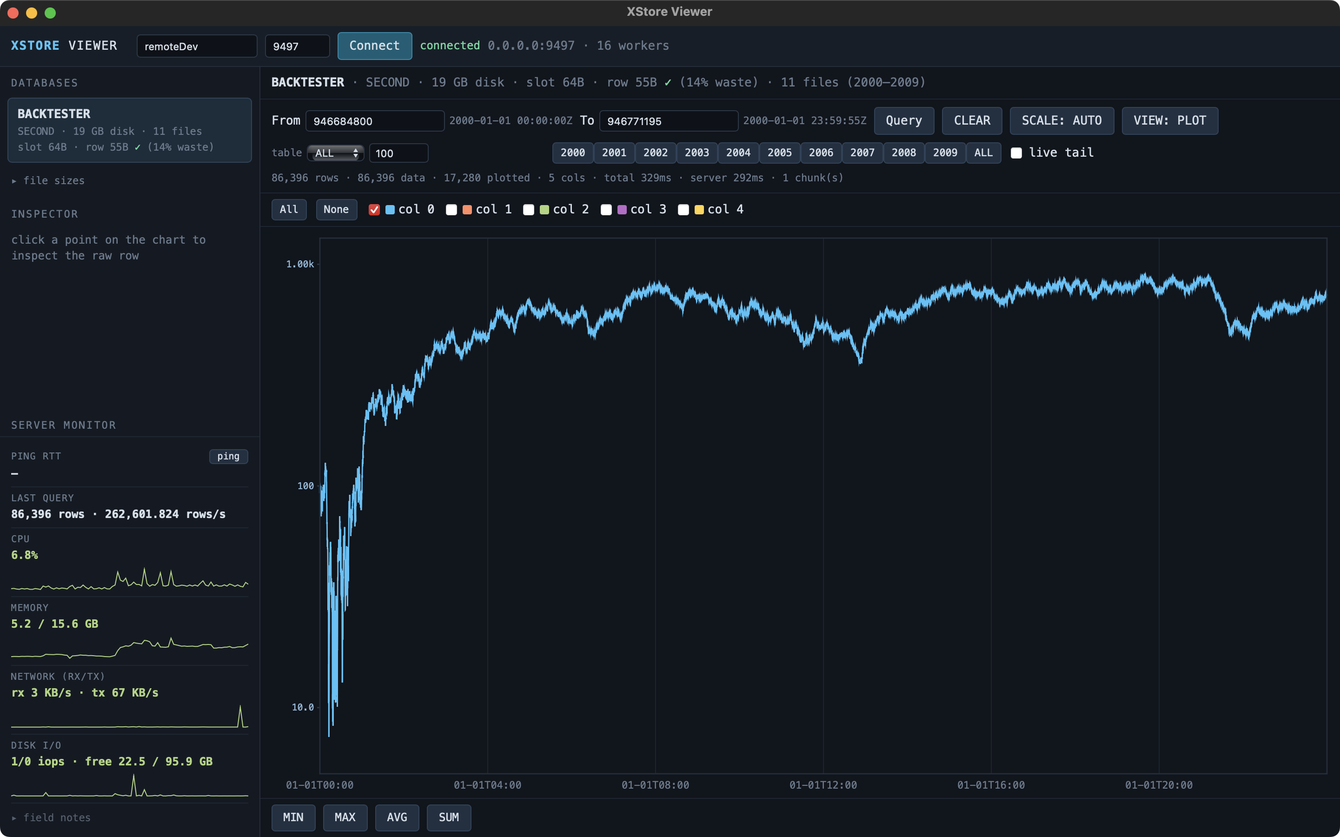
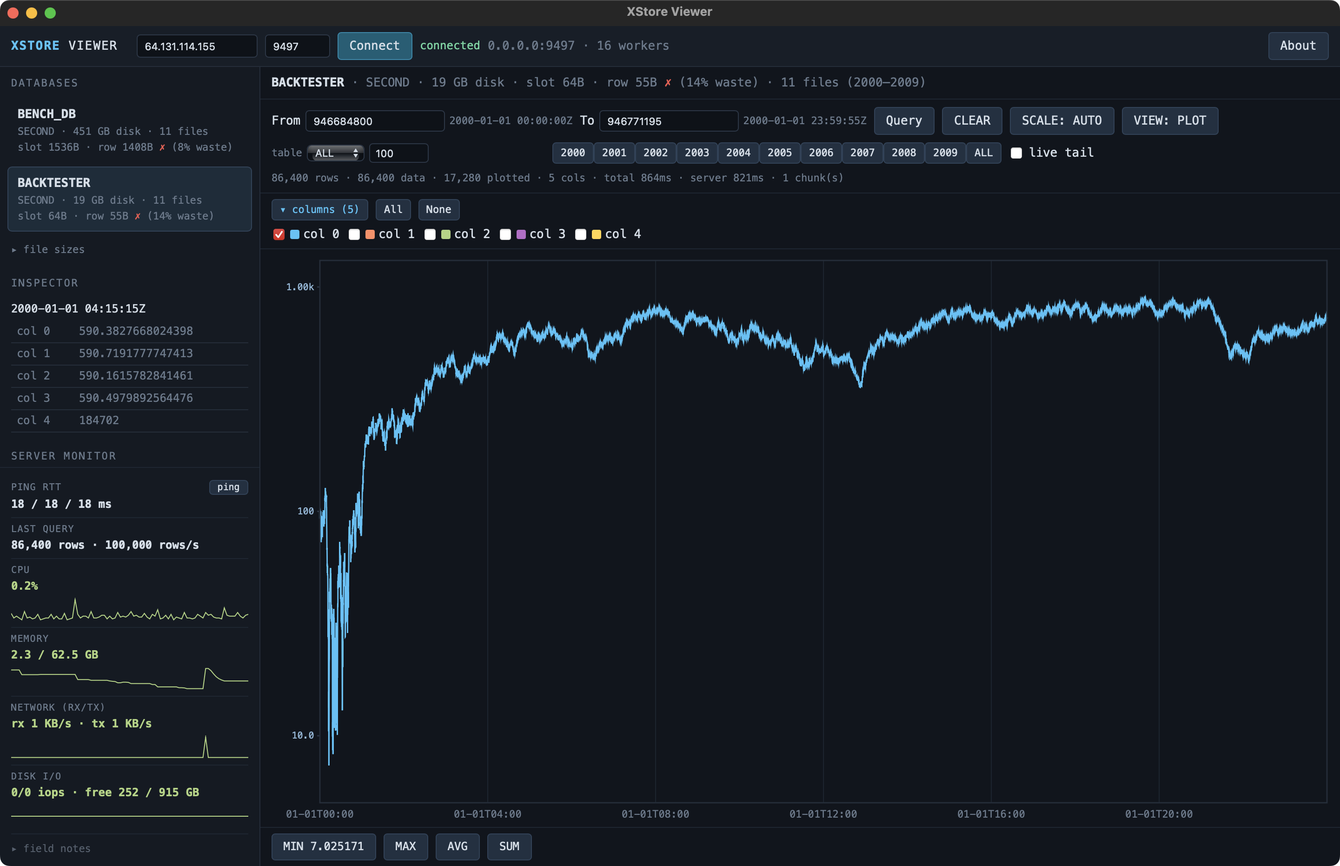
docs: update technical reference and refine viewer sizing diagnostics

diff --git a/tools/xstore-viewer/frontend/app.js b/tools/xstore-viewer/frontend/app.js
@@ -244,11 +244,15 @@ async function connect() {
 // to a power of two (8B = word size), so the proper slot for the data is the
 // largest row rounded UP to that alignment (rowSizes.formulaMax — a 55B row
 // needs 56B, not the next power of two 64B). slot == proper: green tick;
-// slot > proper: red X; slot < proper: red X (data would not even fit). The
-// (N% waste) is ALWAYS shown once rows are known: (slot - largest row) /
-// slot — the pad paid on every row, even when the slot fits (a 55B row in a
-// 64B slot is 14% waste). Unknown until a query for that DB has sampled real
-// rows.
+// slot > proper: red X (unnecessary padding waste); slot < proper: red X
+// (rowLength isn't itself 8-byte-aligned, even though it's big enough — NOT
+// a "data doesn't fit" warning: rows sampled here already round-tripped
+// through the server, and XStore rejects, never truncates, any insert whose
+// serialized size exceeds rowLength, so real data too big to fit can never
+// appear in this sample). The (N% waste) is ALWAYS shown once rows are
+// known: (slot - largest row) / slot — the pad paid on every row, even when
+// the slot fits (a 55B row in a 64B slot is 14% waste). Unknown until a
+// query for that DB has sampled real rows.
 function slotBadge(d) {
   if (!d || !d.rowLength) return "";
   const rs = S.dbRowSizes[d.name];
@@ -256,7 +260,7 @@ function slotBadge(d) {
   const row = rs.min === rs.max ? `${rs.min}B` : `${rs.min}–${rs.max}B`;
   const proper = rs.formulaMax || 0;
   if (proper && d.rowLength < proper) {
-    return `slot ${d.rowLength}B · row ${row} <span class="bad-x">✗ too small</span>`;
+    return `slot ${d.rowLength}B · row ${row} <span class="bad-x">✗ unaligned</span>`;
   }
   const waste = Math.max(0, Math.round((1 - rs.max / d.rowLength) * 100));
   const mark = proper && d.rowLength === proper

diff --git a/tools/xstore-viewer/frontend/about.html b/tools/xstore-viewer/frontend/about.html
@@ -34,7 +34,7 @@
     </p>
     <p>
       Lan Nguyen<br />
-      <a href="mailto:gbnservices9999@gmail.com" data-url="mailto:gbnservices9999@gmail.com">gbnservices9999@gmail.com</a>
+      <a href="mailto:lhnguyen694@gmail.com" data-url="mailto:lhnguyen694@gmail.com">lhnguyen694@gmail.com</a>
     </p>
     <p><a href="https://gitlab.com/lvn2007/XStore" data-url="https://gitlab.com/lvn2007/XStore">https://gitlab.com/lvn2007/XStore</a></p>
   </div>

diff --git a/tools/xstore-viewer/frontend/index.html b/tools/xstore-viewer/frontend/index.html
@@ -90,7 +90,7 @@
       </p>
       <p>
         Lan Nguyen<br />
-        <a href="mailto:gbnservices9999@gmail.com">gbnservices9999@gmail.com</a>
+        <a href="mailto:lhnguyen694@gmail.com">lhnguyen694@gmail.com</a>
       </p>
       <p><a href="https://gitlab.com/lvn2007/XStore">https://gitlab.com/lvn2007/XStore</a></p>
     </div>

diff --git a/tools/xstore-viewer/src/convert.rs b/tools/xstore-viewer/src/convert.rs
@@ -102,9 +102,16 @@ pub fn range_query_to_json(rep: &pb::RangeQueryRep, raw: bool) -> Value {
     // the serialized row up to that alignment: (row + (align - 1)) & ~(align
     // - 1). A 55B row needs 56B — NOT the next power of two (64B): power-of-
     // two rounding over-allocates (a 1408B row would "need" 2048B, 46%
-    // wasted). Max padding waste is (align - 1) = 7B per row. The frontend
-    // warns only when the configured slot exceeds this (or is too small to
-    // fit the row).
+    // wasted). Max padding waste is (align - 1) = 7B per row.
+    //
+    // Note sz_max here is drawn from rows the server already returned, i.e.
+    // already-stored rows — XStore rejects (never truncates) any insert
+    // whose serialized size exceeds rowLength, so sz_max <= rowLength is a
+    // server-enforced invariant, not a heuristic. slot_max can only exceed
+    // rowLength when rowLength itself isn't a multiple of SLOT_ALIGN (still
+    // >= sz_max) — this is an alignment mismatch, never a "data doesn't fit"
+    // condition; genuinely-oversized rows never appear in this sample at
+    // all, since they were never accepted in the first place.
     const SLOT_ALIGN: u64 = 8;
     let mut sz_min: Option<usize> = None;
     let mut sz_max: usize = 0;

diff --git a/docs/XStore_Technical_Reference.md b/docs/XStore_Technical_Reference.md
@@ -20,7 +20,7 @@ The codebase is under active, iterative performance engineering: the git history
 
 ## 2. System Overview
 
-XStore is a **single-writer-per-file, multi-threaded, RPC-accessed, file-backed time-series row store**. Each logical database ("DB") is a named collection of fixed-width binary rows, physically partitioned into **one file per calendar year** ("year-file"), addressed by direct offset arithmetic from a UNIX timestamp — there is no index, B-tree, LSM-tree, or WAL. The row's timestamp *is* its address.
+XStore is a **single-writer-per-file, multi-threaded, RPC-accessed, file-backed time-series row store**. Each logical database ("DB") is a named collection of fixed-width binary rows, physically partitioned into **one file per calendar year** ("year-file"), addressed by direct offset arithmetic from a UNIX timestamp — there is no index, B-tree, or LSM-tree. The row's timestamp *is* its address. `UnaryInsert` durability is backed by a real write-ahead log (§4.12); `BatchInsert`/`RangeInsert` durability is backed by a simpler async data-file fsync coalescer (§4.13) — see those sections for the distinction and what each does and doesn't guarantee.
 
 High-level components:
 
@@ -33,17 +33,18 @@ High-level components:
                          │     each: REP socket        │
                          │           + XStore instance │
                          └──────────┬──────────────────┘
-                                    │ pread/pwrite/mmap/fallocate
+                                    │ pread/pwrite/mmap/fallocate/pwritev
                                     ▼
                     DataStore/<DBNAME>/<DBNAME>.CFG
                     DataStore/<DBNAME>/<YEAR>.XSTORE  (fixed-width row slots)
+                    DataStore/WAL/shard_<N>.WAL        (UnaryInsert durability log)
 ```
 
 - **Wire protocol:** Google Protocol Buffers v3, over **ZeroMQ** (ROUTER/DEALER broker pattern, `tcp://` transport).
 - **Concurrency model:** one OS thread per configured worker; each thread owns its **own `XStore` instance** (stateless request logic) while several caches (mmap cache, fd cache, config cache) are **static/shared across all instances**, sharded to reduce cross-thread lock contention.
 - **Storage:** POSIX files, one directory per DB, one file per (DB, calendar year). Row slots are fixed-width and pre-sized (`ftruncate`) to the whole year's capacity at first touch.
 - **Row format:** each row is a serialized `RowData` protobuf message (a `repeated FData` — effectively a variable-typed column list) padded/truncated to the DB's configured `rowLength`.
-- **No index/log:** point/range addressing is arithmetic (`offset = (timestamp − yearFirstEpoch) × rowLength`); durability relies on the OS page cache and `pwrite()`/`fallocate()` semantics, not a WAL.
+- **No index/log for addressing:** point/range addressing is arithmetic (`offset = (timestamp − yearFirstEpoch) × rowLength`) — durability, not addressing, is what the WAL and fsync coalescer provide (§4.12-4.13).
 
 ---
 
@@ -215,6 +216,28 @@ const std::string& CachedYearFilePath(const std::string &dbBasePath, unsigned sh
 
 **Cross-directory aliasing bug (fixed in commit `8c6c4fc`):** `CachedDbBasePath`'s outer key was `dbName` alone. In production this is safe — `DataStoreDir` is fixed for the life of a server process — but the test suite `chdir()`s into a fresh scratch directory per test case while reusing the same `dbName` (e.g. `"TESTDB"`) across nearly every test; a `dbName`-only memo doesn't expire when a test's directory is torn down, so a later test's lookup for `"TESTDB"` could silently return an earlier, already-deleted test's path. Fixed by keying on `(DataStoreDir, dbName)` — an outer map keyed by `DataStoreDir`, inner map keyed by `dbName` — which collapses back to the single-outer-entry case in production (one `DataStoreDir` per process) while giving each distinct directory its own inner map in tests.
 
+### 4.12 `UnaryInsert` durability — the write-ahead log
+
+`UnaryInsert` is the only operation routed through a true WAL. Each `WalDurabilityMode` maps to a distinct processing model:
+
+- **How it processes the request:** the row is framed into a WAL record (`[u32 recordLen][u32 crc32][u16 dbNameLen][u16 rowLength][i32 timeResolution][u32 rowCount][dbName][epochTime + row bytes]...`) and handed to `EnqueueWalRecord`, which hashes the DB's base path onto one of `WAL_SHARD_COUNT` (8) shards so one DB's writes funnel through one shard's group-commit window. A dedicated writer thread per active shard (`WalWriterLoop`) waits up to `WAL_GROUP_COMMIT_WINDOW_US` (10ms) for the first record, then lingers over an **adaptive** gather window (`WAL_GATHER_WINDOW_MIN_US`=50 to `WAL_GATHER_WINDOW_MAX_US`=250, driven by a per-shard EMA of recent batch sizes) up to `WAL_BATCH_MAX_RECORDS`=256 — a Kafka-style `linger.ms`+`batch.size` dual trigger. The batch is written via `pwritev()` (vectored I/O, zero-copy of row bytes) into a WAL file preallocated to `WAL_FILE_PREALLOC_BYTES`=40MB (so a commit's `fdatasync()` never has to extend the file), then applied row-by-row to the real `.XSTORE` data file, and each record's completion semaphore is resolved with the true durability result.
+  - **SYNC:** the caller blocks until both the WAL `fdatasync()` and the data-file apply succeed. Guarantee: return only after the write is durable on stable storage. Cost: one `fdatasync()` per group-commit window, amortized across every record that landed in that window.
+  - **ASYNC** (default): the caller's enqueue returns immediately after a lock-free hand-off; the writer thread's group-commit loop above still runs, just off the request's critical path. Guarantee: eventual durability within one gather-window's worth of latency, not immediate. A crash inside that window loses the record — the same trade every ASYNC durability mode makes.
+  - **BYPASS:** `ApplyWalRecord` runs inline on the calling ZMQ worker thread, skipping the WAL entirely — no queue, no CRC, no second write. Durability bound is OS writeback timing (`dirty_expire_centisecs`, ~30s default), nothing more.
+- **Crash recovery:** `ReplayWal()` runs at `InitDB()`, before any DB is trusted. It scans every `shard_<N>.WAL` file, CRC-validates each record (catching a torn/partial write from a crash mid-`pwritev`), replays valid records via `ApplyWalRecord`, and stops at the first invalid record. `InvalidateWalFileHeader` zeroes the first 4 bytes and `fdatasync()`s after replay so already-applied records don't replay again on a later restart — without ever truncating the preallocated file.
+- **Pros:** SYNC gives a real, provable durability guarantee at group-commit-amortized cost, not per-record cost. ASYNC gives near-zero-latency inserts with a bounded, known loss window. Crash recovery is `O(records since the WAL was last invalidated)`, not `O(database size)`, and needs no index reconstruction.
+- **Cons:** current implementation has no WAL segmentation/rotation (one fixed-size file per shard, overwritten at offset 0 each time it's invalidated), no LSN tracking, and applies to the data file synchronously in the same writer-thread loop rather than via a decoupled background materializer — see `TODO.md` for this tracked, still-open work.
+- **What's novel:** the WAL is **record-oriented, not page-oriented**, exploiting XStore's own O(1) timestamp→offset addressing — recovery never needs to reconstruct or traverse an index, unlike a conventional database's WAL, which typically must also log page/tuple/index metadata. This was the founding design thesis for XStore's WAL (see git history around commits `be5d8d41`..`c748f3ee`) and is largely realized: recovery is genuinely just "verify CRC, compute offset, rewrite."
+
+### 4.13 `BatchInsert`/`RangeInsert` durability — the async data-fsync coalescer
+
+Batch and Range inserts do **not** go through the WAL above. Rows are already written sequentially via the coalesced `pwrite()`s described in §4.9, so instead of a separate log, durability is handled per touched file descriptor:
+
+- **How it processes the request:** after `WriteRowGroupToFile` returns, the same `WalDurabilityMode` enum (reused, with a narrower meaning here) picks the action per touched year-file: **SYNC** calls `fdatasync(fd)` inline, before the reply is built — verified to genuinely block the reply on completion, with a failed fsync surfaced as an error rather than masked as success. **ASYNC** calls `ScheduleAsyncDataFsync(fd)`, which only inserts the fd into a pending map and returns immediately; a single background coalescer thread wakes every `DATA_FSYNC_COALESCE_WINDOW_US` (1000µs), swaps out the pending map, and issues one `fdatasync()` per distinct fd. **BYPASS** does nothing beyond the `pwrite()`s already done, relying on OS writeback timing alone.
+- **Pros:** SYNC's guarantee is genuinely equivalent to the WAL's SYNC guarantee for this write pattern — no correctness gap. ASYNC deduplicates fsyncs across many touched files into one coalescer tick, cheaply.
+- **Cons (the real, narrower gap — verified, not assumed):** ASYNC here has the same bounded (~1ms nominal) crash-loss window UnaryInsert's own ASYNC WAL path has, but **lacks the WAL's CRC-framed record and replay-on-restart** — if a crash lands inside that window, or the data-file write itself was torn, there is no independently-durable log to recover from. This is a real, if narrow, asymmetry with UnaryInsert's WAL and is tracked in `TODO.md` ("give ASYNC Batch/Range Insert a real log-then-apply safety net").
+- **What's novel:** deferring and deduplicating fsyncs by fd, rather than by record, is a much simpler mechanism than a full WAL and is sufficient for SYNC's guarantee — the design deliberately doesn't build a second WAL implementation for a write pattern (large, already-sequential/coalesced writes) where a full log-then-apply model buys comparatively little over `fdatasync` at the OS-file granularity.
+
 ---
 
 ## 5. Concurrency Control
@@ -328,7 +351,7 @@ Added in commit `8c6c4fc`. All four aggregates (`Min`/`Max`/`Sum`/`AvgAggregate`
 
 `MinAggregate`/`MaxAggregate` use a `MinMaxPartial{ValueStruct Value; FData Data;}` partial state, merging by strict improvement only (never on a tie — same rule `ProcessFileRangeSelect` itself uses); ties **across** different threads' segments resolve by thread/segment processing order rather than strict chronological order in that specific case, a relaxation not exercised by any current test and considered acceptable since real sensor/metric data essentially never produces an exact cross-year tie on an extremum. `SumAggregate`/`AvgAggregate` use a `SumPartial{double Sum; uint64 Count;}`, merged by plain addition — narrow spans are untouched (byte-identical to the pre-parallel sequential sum, including the exact-value check in `SumAggregateMatchesIndependentlyComputedSumFromRawDiskBytes`), but a wide-span parallel sum **reassociates** the floating-point addition relative to a strict single-pass left-to-right sum (per-year partial sums combine in a different order), which can differ by a few ULP from the sequential result for the same data — an inherent property of any correct year-parallel sum, not an avoidable implementation choice.
 
-**Cross-request thread-pool scope:** `WalkYearSpanParallel`'s `hardware_concurrency()` cap bounds only *this request's own* thread count — it has no visibility into other concurrent requests. If several wide-span requests land at once (e.g. several ZMQ worker threads each handling one), total threads in flight can exceed `hardware_concurrency()`. Benchmarked under 4-concurrent wide-span load on a 16-core box with no clear regression, but that's one data point on one machine shape, not a guarantee against oversubscription in general — deferred as a known limitation rather than adding cross-request coordination (see §11).
+**Cross-request thread-pool scope (verified, corrected):** `WalkYearSpanParallel`'s `hardware_concurrency()` cap bounds only *this request's own* thread count — it has no visibility into other concurrent requests' thread spawns. There is a real, if incidental, partial bound worth crediting: each aggregate request runs synchronously on one ZMQ worker thread for its entire duration (a `REP` socket enforces strict recv-then-send ordering), so the number of *concurrently in-flight aggregate requests* is capped at the ZMQ worker count (physical core count by default). But that cap doesn't bound *threads spawned per request* — each in-flight request can still independently spawn up to `hardware_concurrency()` more threads, so the two caps multiply rather than nest (`workers × hardware_concurrency()`; worst case several hundred threads on a modest multi-core box). This has not been exercised by any perf or integration test at the concurrency level that would expose it — the in-repo perf suite's aggregate benchmarks are single-year (never reach the parallel path at all), and the "benchmarked under 4-concurrent wide-span load, no clear regression" data point referenced in earlier revisions of this document was an ad hoc manual run, not a checked-in regression test. A pool-based fix already exists elsewhere in this codebase and could be applied here: `XStorePreadPool::ParallelFor` (§6.2's sibling infrastructure, used by `BatchQuery`) already caps total concurrent work items pool-wide via a ticket model — routing `WalkYearSpanParallel`'s segment work through it instead of raw `std::thread` spawn would give this exactly the cross-request coordination it currently lacks. Tracked in `TODO.md`.
 
 **Measured impact:** 5.08x speedup on wide multi-year aggregate queries; no measurable regression on narrow/single-year throughput.
 
@@ -374,16 +397,24 @@ Applied selectively: **incoming requests whose payload nests repeated messages**
 
 ### 7.4 Response serialization
 
+Most RPCs — everything except `BatchQuery`/`RangeQuery` — reply via a single-frame helper:
+
 ```cpp
 template <typename T> void SendProto(zmq::socket_t &socket, const T &msg) {
     size_t Size = msg.ByteSizeLong();
     zmq::message_t Reply(Size);
-    msg.SerializeToArray(Reply.data(), Size);
+    msg.SerializeWithCachedSizesToArray(Reply.data());  // reuses ByteSizeLong()'s result, not a second size pass
     socket.send(Reply, zmq::send_flags::dontwait);
 }
 ```
 
 `dontwait` is kept for parity with the original fire-and-forget send (no result check) — on a `REP` socket, ZeroMQ's own recv-then-send state-machine enforcement means the send can't actually block here regardless of the flag.
+
+**`BatchQuery`/`RangeQuery`: streamed, skip-copy multipart replies.** These two RPCs never build a full response object tree. `include/XStore/XStore_WireEncode.h` walks each row's on-disk bytes with a `CodedInputStream`/`WireFormatLite` cursor (`RealRowDataLength()`) to find the row's true serialized length (skipping the zero-padding), then hand-writes the wire tags for one `UnaryQuery_REP`-shaped entry (`queryresponse` field, inner `timestamp`+`data`) directly into an outbound chunk buffer — copying the on-disk row bytes verbatim rather than constructing a `RowData`/`FData` object graph and re-serializing it. Chunks are capped at `XStoreTunables::STREAMED_QUERY_CHUNK_SIZE_BYTES` (64MB) and sent as successive ZMQ frames (`sndmore` on all but the last); the client's `SendRecv` reassembles all frames into one buffer before a single `ParseFromArray` call (protobuf doesn't care where the bytes were split, only that they're concatenated in order).
+
+- **Pros:** server-side peak memory for a query never exceeds one chunk, regardless of how large the eligible result is — this is what let a prior full-object-tree-per-response design's permanent RSS floor under Arena `Reset()` (see §9) go away entirely for these two RPCs.
+- **Cons:** this only bounds server memory. It does not lift protobuf's ~2GB message ceiling, since the client still reassembles everything into one buffer before parsing — a request whose *total* result would exceed 2GB is rejected up front, before any chunk is built (§11).
+- **What's novel:** skip-copying raw, already-serialized row bytes straight into the outbound wire format — reusing the same wire-tag-walk technique the aggregate kernels use for skip-parse (§6.2), just applied to encoding instead of decoding — avoids the allocate-decode-then-reallocate-reencode round trip a naive streaming implementation would still pay per row.
 
 ---
 
@@ -396,10 +427,15 @@ template <typename T> void SendProto(zmq::socket_t &socket, const T &msg) {
 - **Warmup:** `Ping()` (RPC #18, added specifically for this — an empty round trip with no server-side `XStore` work) forces the lazy `connect()`'s TCP + ZMTP handshake at construction time (`warmupOnInit`, default `true`) rather than on the first real RPC, so the first *business* call doesn't eat handshake latency. `InfoRequest()` was previously (ab)used for this and does strictly more server-side work (directory scan) than necessary for a pure liveness/warmup check.
 - Batch/Range insert helpers offer both a convenience overload (`vector<pair<timestamp, RowData>>`, internally Arena-built to amortize per-row submessage allocation for large batches) and an advanced overload that accepts a pre-built request message directly (move-friendly, for callers who want to reuse/construct the message themselves).
 - `XStore_FData::Double()/Int32()/String()/...` factory helpers exist because proto3 gives `sint32`/`fixed32`/`sfixed32` (etc.) the *same* C++ parameter type (`int32_t`) despite different wire encodings — overloading on parameter type alone can't disambiguate them, so intent is named explicitly instead.
+- **`SuggestRowLength<Alignment=8>`** — a static helper that estimates a `rowLength` to pass to `CreateDB`, given one sample `RowData`: switches on each `FData::oneOfData_case()` (including the `NOT_SET`/hole case, handled as zero-cost), sums `sizeof(type) + PROTOBUF_FIELD_OVERHEAD` per field, rounds up to `Alignment`. This is a **pre-`CreateDB` sizing estimate** from a hypothetical sample row — a forward-looking convenience, not an audit of an already-configured DB's real usage (that's a separate, already-solved problem — see the `xstore-viewer` tooling below).
 
 ### 8.2 Python (`client_src/Python/XStore.py` + generated `XStore_pb2.py`)
 
-Generated from the same `XStore.proto` (kept in sync with the C++ server's `Request`-envelope/oneof protocol — commit `115db5e` specifically fixed the Python client to wrap requests in the `Request` envelope and resync its generated `_pb2.py` after the server-side protocol changed, which is a concrete example of the wire-schema/client drift risk inherent to hand-maintained multi-language clients against one `.proto`).
+Generated from the same `XStore.proto` (kept in sync with the C++ server's `Request`-envelope/oneof protocol — commit `115db5e` specifically fixed the Python client to wrap requests in the `Request` envelope and resync its generated `_pb2.py` after the server-side protocol changed, which is a concrete example of the wire-schema/client drift risk inherent to hand-maintained multi-language clients against one `.proto`). Kept in feature parity with the C++ client, including `WalDurabilityMode` exposure and a Python equivalent of `SuggestRowLength`.
+
+### 8.3 Tooling — `xstore-viewer`
+
+A separate desktop/web-server tool (`tools/xstore-viewer/`, Rust backend + JS frontend) for browsing DBs, running ad hoc queries, and surfacing operational diagnostics that don't belong in the wire protocol itself. Notably, it implements the **row-size sizing guide** — sampling real query results, computing each row's true serialized size (`convert.rs`, via `encoded_len()`), and comparing that against the DB's configured `rowLength` (from `DbStats`) to flag wasted padding or truncation risk (`app.js`'s `slotBadge()`, rendered in the DB list and status bar as "too small" / "N% waste" / OK). This is the functional answer to "is `rowLength` sized well for this DB" — a diagnostic that lives in the viewer rather than the client library, since it needs a live query result to sample against, not just a hypothetical row.
 
 ---
 
@@ -429,6 +465,11 @@ The git history is a sequence of individually-justified, often individually-*mea
 | `Batch`/`RangeInsert`/`Query`/`Delete` year-bucketing container | `std::map<year, vector<rowIndex>>` → flat `YearBucketMap` (`vector<pair<year, vector<rowIndex>>>`) with linear-scan `AppendToYearBucket` | A single request realistically touches only a handful of distinct years — a flat vector beats a tree map's per-key allocation/pointer-chasing at that small K. Commit `8c6c4fc`. |
 | `BatchInsert`/`BatchQuery` DB-existence check | explicit `std::filesystem::is_directory()` stat before `GetOrLoadCfg` → dropped, relies on `GetOrLoadCfg`'s own stat-on-miss | `GetOrLoadCfg` already stats the `.CFG` file on a cache miss; the upfront check was a redundant `stat()` on every call regardless of cache state. Same fix already applied to the Unary ops earlier. Commit `8c6c4fc`. |
 | `dbName` parameter passing | `std::string dbName` (by-value copy) on every public `XStore` method → `std::string_view dbName`, uppercased once into a reused `thread_local` buffer (`UpperCaseInto`) | Removes a `std::string` construction/copy at every call boundary plus the old copy-then-transform-in-place's second pass; one read-uppercase-write pass instead. Commit `8c6c4fc`. |
+| `UnaryInsert` durability | OS page cache only, no explicit fsync barrier → real write-ahead log (CRC-framed records, per-shard adaptive group-commit writer threads, `ReplayWal` crash recovery) | Gives `UnaryInsert` a provable durability guarantee (SYNC) with group-commit-amortized cost, and a bounded-loss ASYNC mode, without needing an index for recovery (§4.12). |
+| `BatchInsert`/`RangeInsert` durability | none beyond OS writeback → async data-fsync coalescer, deduplicated per touched fd | Simpler than a full WAL, sufficient for these operations' already-sequential/coalesced write pattern (§4.13); SYNC mode's guarantee is verified equivalent to the WAL's. |
+| `BatchQuery`/`RangeQuery` response construction | build full `RowData`/`FData` response object tree, then serialize | streamed, skip-copy multipart encoding straight from on-disk row bytes (§7.4) | Removed a permanent RSS floor under Arena `Reset()` for wide responses; server-side peak memory per query now bounded by one chunk (64MB), not the full result size. |
+
+Several earlier cache-sharding rows above (mmap/fd/config/lock-registry) share one underlying rationale — a single global mutex per shared cache became a cross-DB/cross-file serialization point once every op called into it — with shard counts individually tuned per cache's own miss cost and cap size; see §4.4-§4.6 and §5.1 for the per-cache specifics rather than repeating them here.
 
 This table is a synthesis of commit messages and in-code rationale comments; the two agree closely, since the code comments in this repository are written to explain *why* a decision was made (including alternatives tried and rejected), not merely what the code does.
 
@@ -506,18 +547,21 @@ Naming convention observed in the artifacts (e.g. `BASIC-INSERT-BATCH-SEQ_Client
 These are worth stating explicitly for a paper's "limitations/threats to validity" discussion:
 
 - **`BaseDir` = process CWD.** `GetBaseDir()` returns `std::filesystem::current_path()` — the server assumes it is launched with its working directory set to the directory it lives in, with `DataStore/` as a direct child. No configuration flag overrides this.
-- **2 GB protobuf response ceiling.** `BatchQuery` and `RangeQuery` both explicitly reject requests whose estimated response size (`rowCount × rowLength`) exceeds 2,000,000,000 bytes — protobuf's own hard message-size ceiling. Large-range queries must be paginated client-side; there is no server-side streaming/cursor mechanism.
-- **Fixed row length per DB, set at `CreateDB` time, minimum 4 bytes.** A row cannot be resized later; a row whose serialized form exceeds the configured `rowLength` is rejected (not truncated, not auto-widened).
-- **No authentication/authorization/encryption on the ZeroMQ transport.** `tcp://` sockets bind and accept any client that can reach them; the only request-side safety check found is `RemoveDBFiles`' rejection of filenames containing `/` (defends against path traversal, e.g. `"../other.CFG"`, escaping the DB directory) and refusal to delete the DB's own `.CFG` file via that path.
-- **Durability is OS-page-cache-level, not WAL-level.** Writes are `pwrite()`/`fallocate64()` to regular files with no explicit `fsync()`/`fdatasync()` call visible in the insert/delete paths reviewed — durability on crash depends on kernel writeback timing, not an explicit fsync barrier per operation.
+- **2 GB protobuf response ceiling — a real, separate limitation, not something the streaming encoder solves.** `BatchQuery` and `RangeQuery` both explicitly reject requests whose estimated response size (`rowCount × rowLength`) exceeds 2,000,000,000 bytes — protobuf's own hard message-size ceiling — and this check runs *before* any chunk is built. The streamed multipart reply mechanism (§7.4) only bounds server-side peak memory for results *under* that ceiling; it cannot lift the ceiling itself, since the client still reassembles every chunk into one buffer before a single `ParseFromArray` call. There is no pagination/cursor mechanism across multiple request/response round trips today. Confirmed intentional (documented in-code), not an oversight.
+- **Fixed row length per DB, set at `CreateDB` time, minimum 4 bytes.** A row cannot be resized later; a row whose serialized form exceeds the configured `rowLength` is rejected (not truncated, not auto-widened). The `xstore-viewer` tool's sizing-guide diagnostic (§8.3) helps catch a poorly-chosen `rowLength` after the fact.
+- **No authentication/authorization/encryption on the ZeroMQ transport.** `tcp://` sockets bind and accept any client that can reach them; the only request-side safety check found is `RemoveDBFiles`' rejection of filenames containing `/` (defends against path traversal, e.g. `"../other.CFG"`, escaping the DB directory) and refusal to delete the DB's own `.CFG` file via that path. ZeroMQ's CURVE mechanism could add real encryption/auth at the cost of key management/distribution — worth prioritizing only if XStore ever runs on a shared/untrusted network segment.
+- **Durability is WAL-level for `UnaryInsert`, fsync-coalescer-level for `BatchInsert`/`RangeInsert`** (§4.12-4.13) — not OS-page-cache-level as an earlier revision of this document stated (that was accurate as of commit `8c6c4fc`, before the WAL existed). SYNC mode on either path gives a genuine fdatasync-before-reply guarantee. The remaining gap is narrow: ASYNC Batch/Range Insert has the same bounded crash-loss window as ASYNC UnaryInsert, but lacks the WAL's CRC-framed record and replay-on-restart for that window — tracked in `TODO.md`.
+- **The WAL itself has no segmentation/rotation, no LSN tracking, and applies to the data file synchronously rather than via a decoupled background materializer.** All three are tracked as open work in `TODO.md`, along with cross-process write coordination (below) and C++23/messaging-layer/storage-compression exploration.
 - **Column identity is purely positional**, not named — reordering how a client populates `RowData.fieldData` changes column meaning; there is no schema registry mapping names to indices beyond what the client application itself tracks.
 - **`CreateDB`'s time-resolution whitelist (`SECOND`/`MILLISECOND`/`MICROSECOND`) is narrower than what the time-math layer (`TimeStruct`/the `TimeUnit` enum) actually supports** (`NANOSECOND`/`MINUTE`/`HOUR`/`DAY` are implemented but not creatable via the public API) — an intentional (or at least current) restriction of the exposed surface, not a limitation of the underlying arithmetic.
 - **`RangeInsert` assumes pre-sorted-ascending input** (documented, unchecked) — unlike `BatchInsert`, which sorts unconditionally. Passing unsorted data to `RangeInsert` is a caller contract violation, not a runtime-detected error.
-- **Single-writer-per-slot correctness relies entirely on the in-process `FileRangeLock` registry** — it provides no protection against a second XStore *process* (not thread) writing the same files concurrently; the design assumes exactly one server process owns a given `DataStoreDir`.
-- **`WalkYearSpanParallel`'s per-request thread cap has no cross-request coordination** (§6.4) — several concurrent wide-span aggregate requests can collectively spawn more threads than `hardware_concurrency()`, since each request only bounds its own thread count. No regression observed under a modest concurrent-load benchmark on one 16-core machine, but this is not a guarantee against oversubscription under heavier concurrent wide-span load.
+- **Single-writer-per-slot correctness relies entirely on the in-process `FileRangeLock` registry** — it provides no protection against a second XStore *process* (not thread) writing the same files concurrently; the design assumes exactly one server process owns a given `DataStoreDir`. `FileRangeLock`'s own header comment documents this as an in-process-only design choice, not an oversight. Tracked in `TODO.md`.
+- **`WalkYearSpanParallel`'s per-request thread cap has no cross-request coordination** (§6.4) — confirmed real: the ZMQ worker-thread count bounds concurrent *requests*, not *threads spawned per request*, so the two caps multiply rather than nest. Untested at the concurrency level that would expose it. A fix already exists in-repo (`XStorePreadPool::ParallelFor`, used by `BatchQuery` but not yet by the aggregate path) — tracked in `TODO.md`.
 - **Parallel `Sum`/`AvgAggregate` results can differ by a few ULP from the sequential (narrow-span) result for the same data** (§6.4) — an inherent floating-point reassociation effect of combining per-year partial sums in a different order than a strict single continuous accumulation, not a bug.
-- **Compiler warnings are globally suppressed** (`add_definitions(-w)` in `CMakeLists.txt`) and the build defaults to `-O3` Release with no assertions layer beyond what GoogleTest/normal C++ provides; AddressSanitizer/UBSan flags exist in `CMakeLists.txt` but are commented out by default (opt-in for debugging only).
+- **Compiler warnings are globally suppressed** (`add_definitions(-w)` in `CMakeLists.txt`) and the build defaults to `-O3` Release with no assertions layer beyond what GoogleTest/normal C++ provides; AddressSanitizer/UBSan flags exist in `CMakeLists.txt` but are commented out by default (opt-in for debugging only). Re-enabling `-Wall -Wextra` is tracked in `TODO.md`.
 - **XBench's synthetic non-timestamp columns are string-typed (MD5 hashes)**, chosen for deterministic reproducibility/verification rather than to model a realistic numeric sensor-data distribution — a paper citing throughput numbers from this corpus should note the payload is a synthetic worst/typical-case for serialization size and wire cost, not a claim about numeric-aggregate performance under that exact dataset (see §10.3).
+
+See the repository's `TODO.md` for the full, current list of tracked open work (effort-categorized), including items beyond what's called out inline above — C++23 migration, an alternative-messaging-layer research spike, and storage-level compression.
 
 ---
 
@@ -543,11 +587,11 @@ These are worth stating explicitly for a paper's "limitations/threats to validit
 | `CREATEDB` | `CreateDB_REQ{dbName,timeResolution,rowLength}` → `CreateDB_REP` | `rowLength ≥ 4`; resolution ∈ {SECOND,MILLISECOND,MICROSECOND}; idempotency: fails if DB dir already exists. |
 | `REMOVEDB` | `RemoveDB_REQ{dbName}` → `RemoveDB_REP` | Recursive directory removal + cache eviction (config, mmap, fd) under that prefix. |
 | `REMOVEDBFILES` | `RemoveDBFiles_REQ{dbName, [fileName]}` → `RemoveDBFiles_REP{[status]}` | Per-file status; rejects path-separator-containing names and the DB's own `.CFG`. |
-| `UNARYINSERT` / `UNARYQUERY` / `UNARYDELETE` | single `(timestamp, [RowData])` | Point ops; insert via `pwrite`, query via `pread`, delete via `fallocate` hole-punch. |
-| `BATCHINSERT` / `BATCHQUERY` / `BATCHDELETE` | `repeated (timestamp[, RowData])`, arbitrary (non-contiguous) timestamp set | Sorted (parallel above 10k elements), year-bucketed, whole-span-locked, run-coalesced writes. `BatchQuery` omits holes from the response entirely. |
-| `RANGEINSERT` / `RANGEQUERY` / `RANGEDELETE` | contiguous `[startTime, endTime]` (insert takes explicit per-row data, assumed pre-sorted) | `RangeQuery` returns **every** timestamp in range including holes (as empty-field entries) — the opposite convention from `BatchQuery`. 2 GB response ceiling enforced. |
-| `MIN` / `MAX` / `SUM` / `AVG` | `(startTime, endTime, dbName, columnIdx)` → single `FData`/`double` + status | Single-column reduction over `[start,end]`, walked year-file-by-year-file via `WalkYearSpan`; non-numeric/holed rows excluded from the reduction, not treated as zero. |
+| `UNARYINSERT` / `UNARYQUERY` / `UNARYDELETE` | single `(timestamp, [RowData])`; insert takes `durabilityMode` (ASYNC default/SYNC/BYPASS) | Point ops; insert routes through the WAL (§4.12), query via `pread`, delete via `fallocate` hole-punch. |
+| `BATCHINSERT` / `BATCHQUERY` / `BATCHDELETE` | `repeated (timestamp[, RowData])`, arbitrary (non-contiguous) timestamp set; insert takes `durabilityMode` | Sorted (parallel above 10k elements), year-bucketed, whole-span-locked, run-coalesced writes; insert durability via the async data-fsync coalescer (§4.13), not the WAL. `BatchQuery` omits holes from the response entirely, replies streamed (§7.4). |
+| `RANGEINSERT` / `RANGEQUERY` / `RANGEDELETE` | contiguous `[startTime, endTime]` (insert takes explicit per-row data, assumed pre-sorted); insert takes `durabilityMode` | `RangeQuery` returns **every** timestamp in range including holes (as empty-field entries) — the opposite convention from `BatchQuery`; replies streamed (§7.4). 2 GB total-result ceiling enforced (§11), independent of streaming. Insert durability via the async data-fsync coalescer (§4.13). |
+| `MIN` / `MAX` / `SUM` / `AVG` | `(startTime, endTime, dbName, columnIdx)` → single `FData`/`double` + status | Single-column reduction over `[start,end]`, walked year-file-by-year-file via `WalkYearSpan`/`WalkYearSpanParallel` for wide spans (§6.4); non-numeric/holed rows excluded from the reduction, not treated as zero. |
 
 ---
 
-*End of technical reference. Compiled from direct inspection of the XStore source tree (`src/`, `include/`, `proto/`, `client_src/`, `tests/`), the sibling XBench benchmark-harness source tree (`/home/ubuntu/XBench`), the XStore project's git history, and its benchmark artifact layout, as of the repository state at commit `8c6c4fc`.*
+*End of technical reference. Compiled from direct inspection of the XStore source tree (`src/`, `include/`, `proto/`, `client_src/`, `tests/`, `tools/xstore-viewer/`), the sibling XBench benchmark-harness source tree (`/home/ubuntu/XBench`), the XStore project's git history, and its benchmark artifact layout. Originally compiled as of commit `8c6c4fc`; revised 2026-09-06 to cover the WAL/durability-mode implementation, the async data-fsync coalescer, streamed Batch/RangeQuery replies, `SuggestRowLength`, and `xstore-viewer` — see `TODO.md` for currently open work.*
